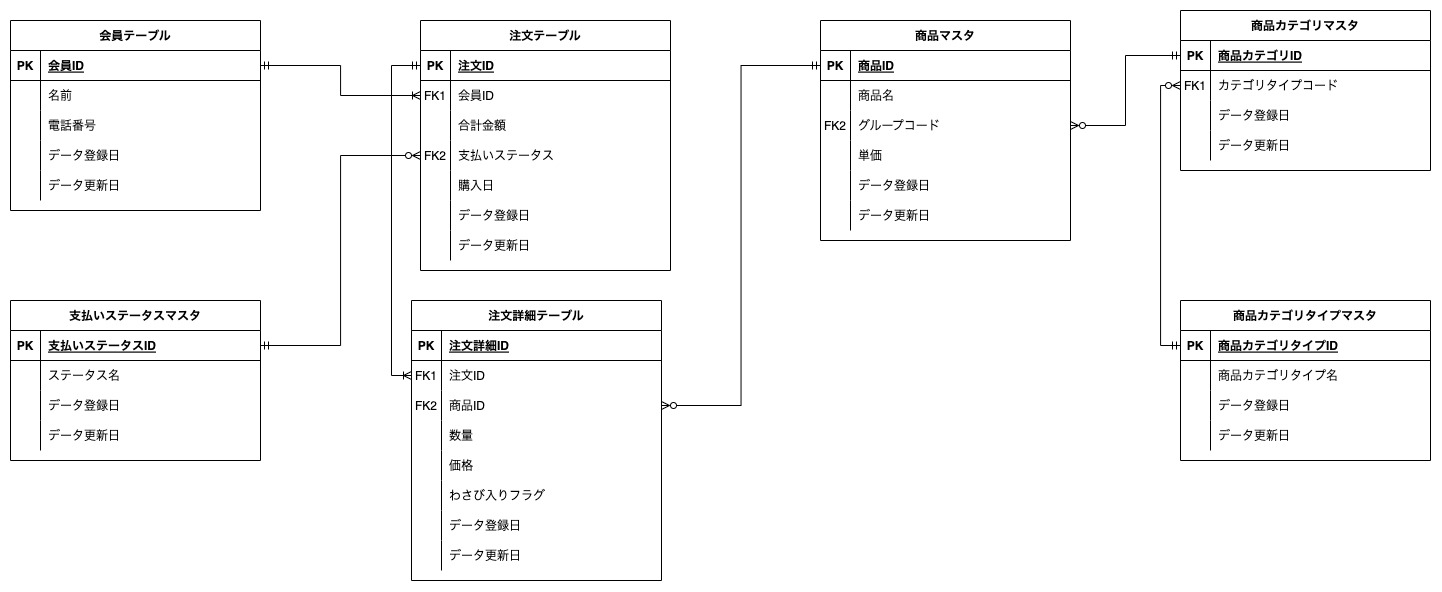
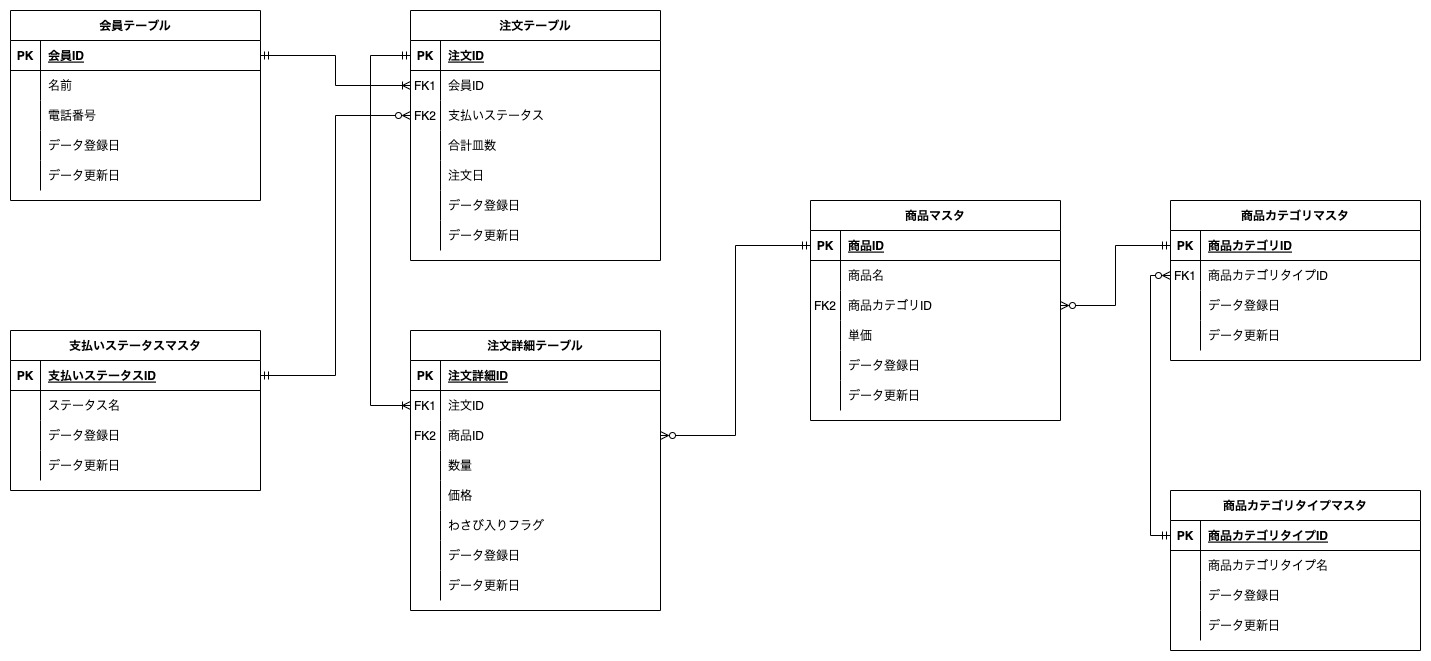
課題1,2,3対応

diff --git a/database_design/DBモデリング1/README.md b/database_design/DBモデリング1/README.md
@@ -4,12 +4,13 @@
 <img src="images/database_design_model_1_1_er.jpeg" width="900px">
 
  - 会員テーブル
+   - 会員データが格納されるテーブル
    - 1会員1行のデータが追加される
    - 注文テーブルと1対多のリレーションを持つ
  - 注文テーブル
+   - 注文データが格納されるテーブル
    - 1注文1行のデータが追加される
-   - 注文の合計金額が格納される
-   - また支払いステータスで支払いの有無を管理する
+   - また支払いステータスで注文の支払い有無を管理する
  - 注文詳細テーブル
    - 注文の中で何の商品が購入されたかが記録される
    - 商品xワサビ有無の数だけ行データが追加される
@@ -83,23 +84,27 @@
 ```sql
 SELECT
     DATE_FORMAT(注文詳細テーブル.データ登録日, "%Y-%m") as "販売月"
-    ,商品マスタ.商品名 as "商品名"
+    ,商品テーブル.商品名 as "商品名"
     ,SUM(注文詳細テーブル.数量) as "合計販売個数"
 FROM
     注文詳細テーブル
-    INNER JOIN 
+    LEFT JOIN 
     (
         SELECT
             *
         FROM
             商品マスタ
+            LEFT JOIN 商品カテゴリマスタ
+            ON 商品マスタ.商品カテゴリID = 商品カテゴリマスタ.商品カテゴリID
+            LEFT JOIN 商品カテゴリタイプマスタ
+            ON 商品カテゴリマスタ.商品カテゴリタイプID = 商品カテゴリタイプマスタ.商品カテゴリタイプID
         WHERE
-            商品マスタ.プライマリグループ = "お好みすしのプライマリグループID"
-    ) as "商品マスタ"
-    ON 注文詳細テーブル.商品ID = 商品マスタ.商品ID
+            商品カテゴリタイプID = お好みすしの商品カテゴリタイプIDID
+    ) as "商品テーブル"
+    ON 注文詳細テーブル.商品ID = 商品テーブル.商品ID
 GROUP BY
     DATE_FORMAT(注文詳細テーブル.データ登録日, "%Y-%m") /* MySQLの仕様に準拠 */
-    ,商品マスタ.商品名
+    ,商品テーブル.商品名
 ;
 
 ```
@@ -108,12 +113,19 @@ GROUP BY
 
 ## 回答3
 ### 追加で考えられる仕様
-- 会員の場合、注文の合計金額を割引にする
-  - 割引ロジックはCRUD処理を行うアプリケーション側で行うものとする
-  - データベース側では、注文データが割引が適用されているかどうかを判別できるように設計する
-    - 新たに会員テーブルを作る
-    - 注文テーブルに会員IDカラムを追加する
-
+- 1. 割引クーポンが利用できる
+  - 仕様1：企業は有効期限つきの割引クーポンを発行&ユーザーに配布でき、ユーザーはそれを会計時に利用すると合計金額から割引される
+  - 仕様2：また同時に利用できるクーポンは一つまでである
+  - オレンジ色で記載した箇所が追加設計部分になります
+    - クーポンテーブルの追加（企業がクーポンを追加できます）
+    - 所持クーポンテーブルの追加（ユーザーが所持しているクーポンを管理します）
+    - 会計テーブルの追加（会計金額と適用されたクーポンIDを格納するテーブルです）
+  
+- 2. 予約注文ができる
+  - 仕様：ユーザーはメニューの予約注文ができるようになる。これにより事前に注文をしておいて、xx日後に注文の品を購入&することができる
+  - 水色で記載した箇所が追加設計部分になります
+    - 注文テーブルに購入予定日を追加することで管理します
+    - 予約注文ではない場合は、注文日時と購入日時を同じ時間として格納します
 <img src="images/database_design_model_1_3_er.jpeg" width="900px">
 
 <br>
